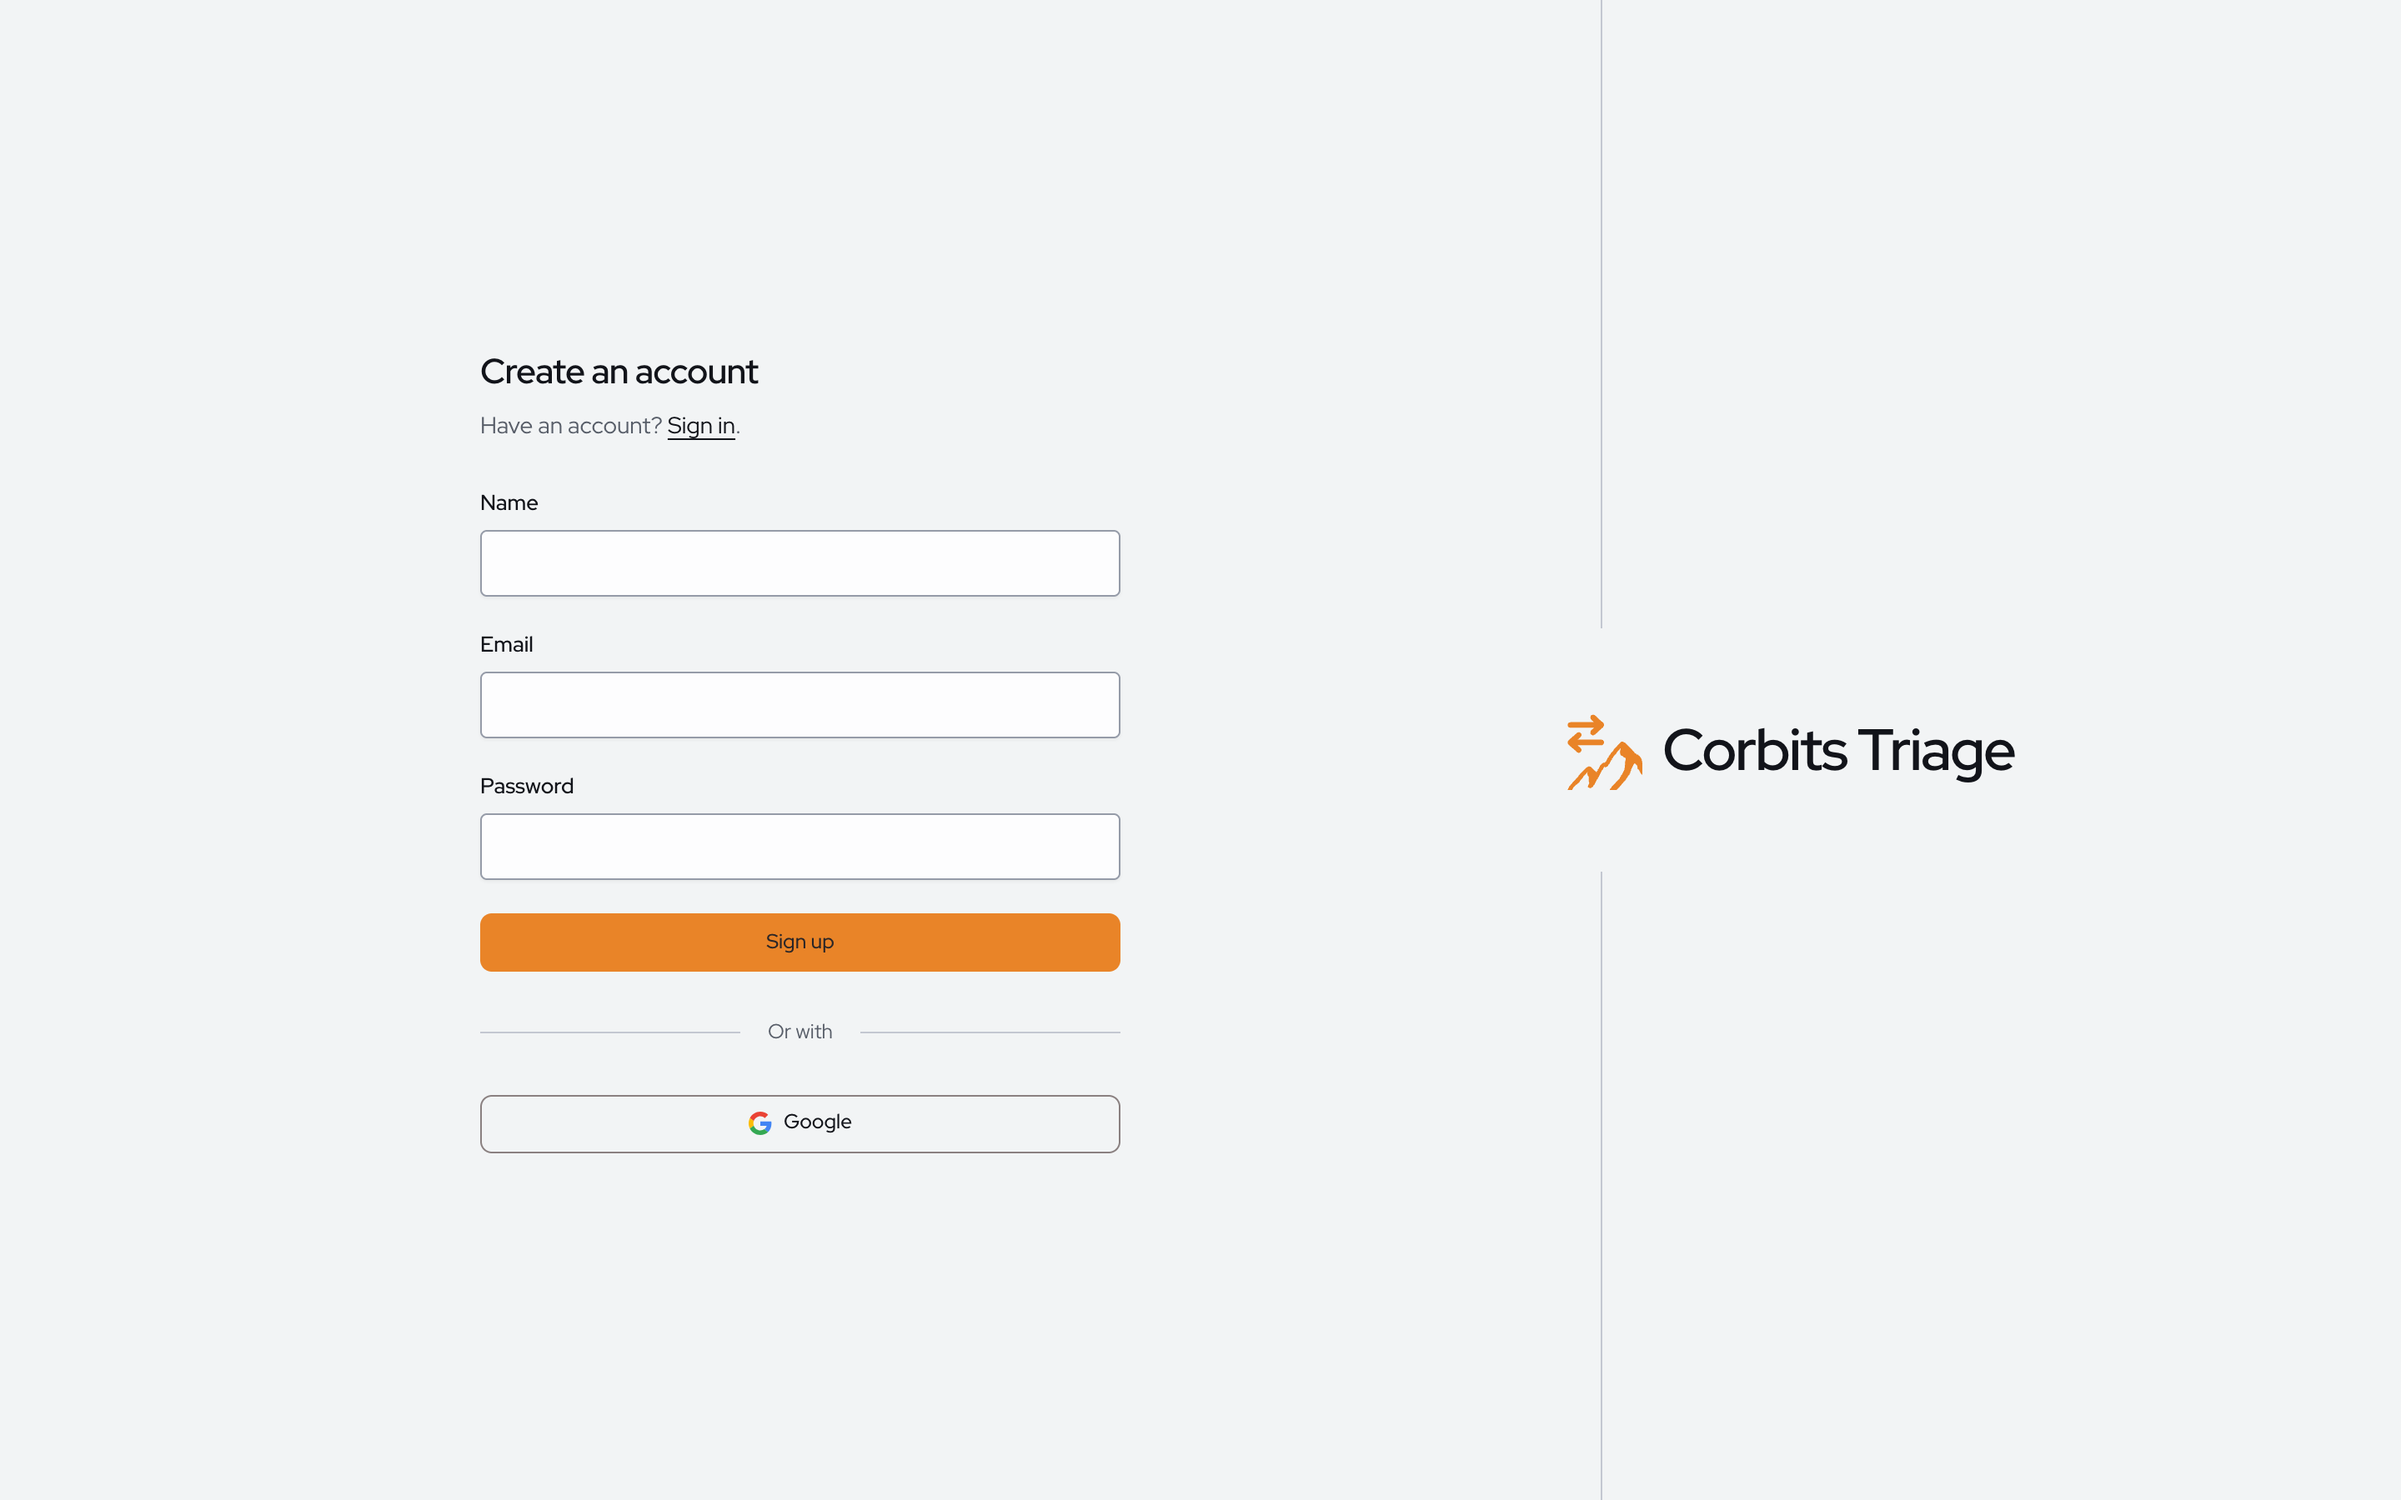
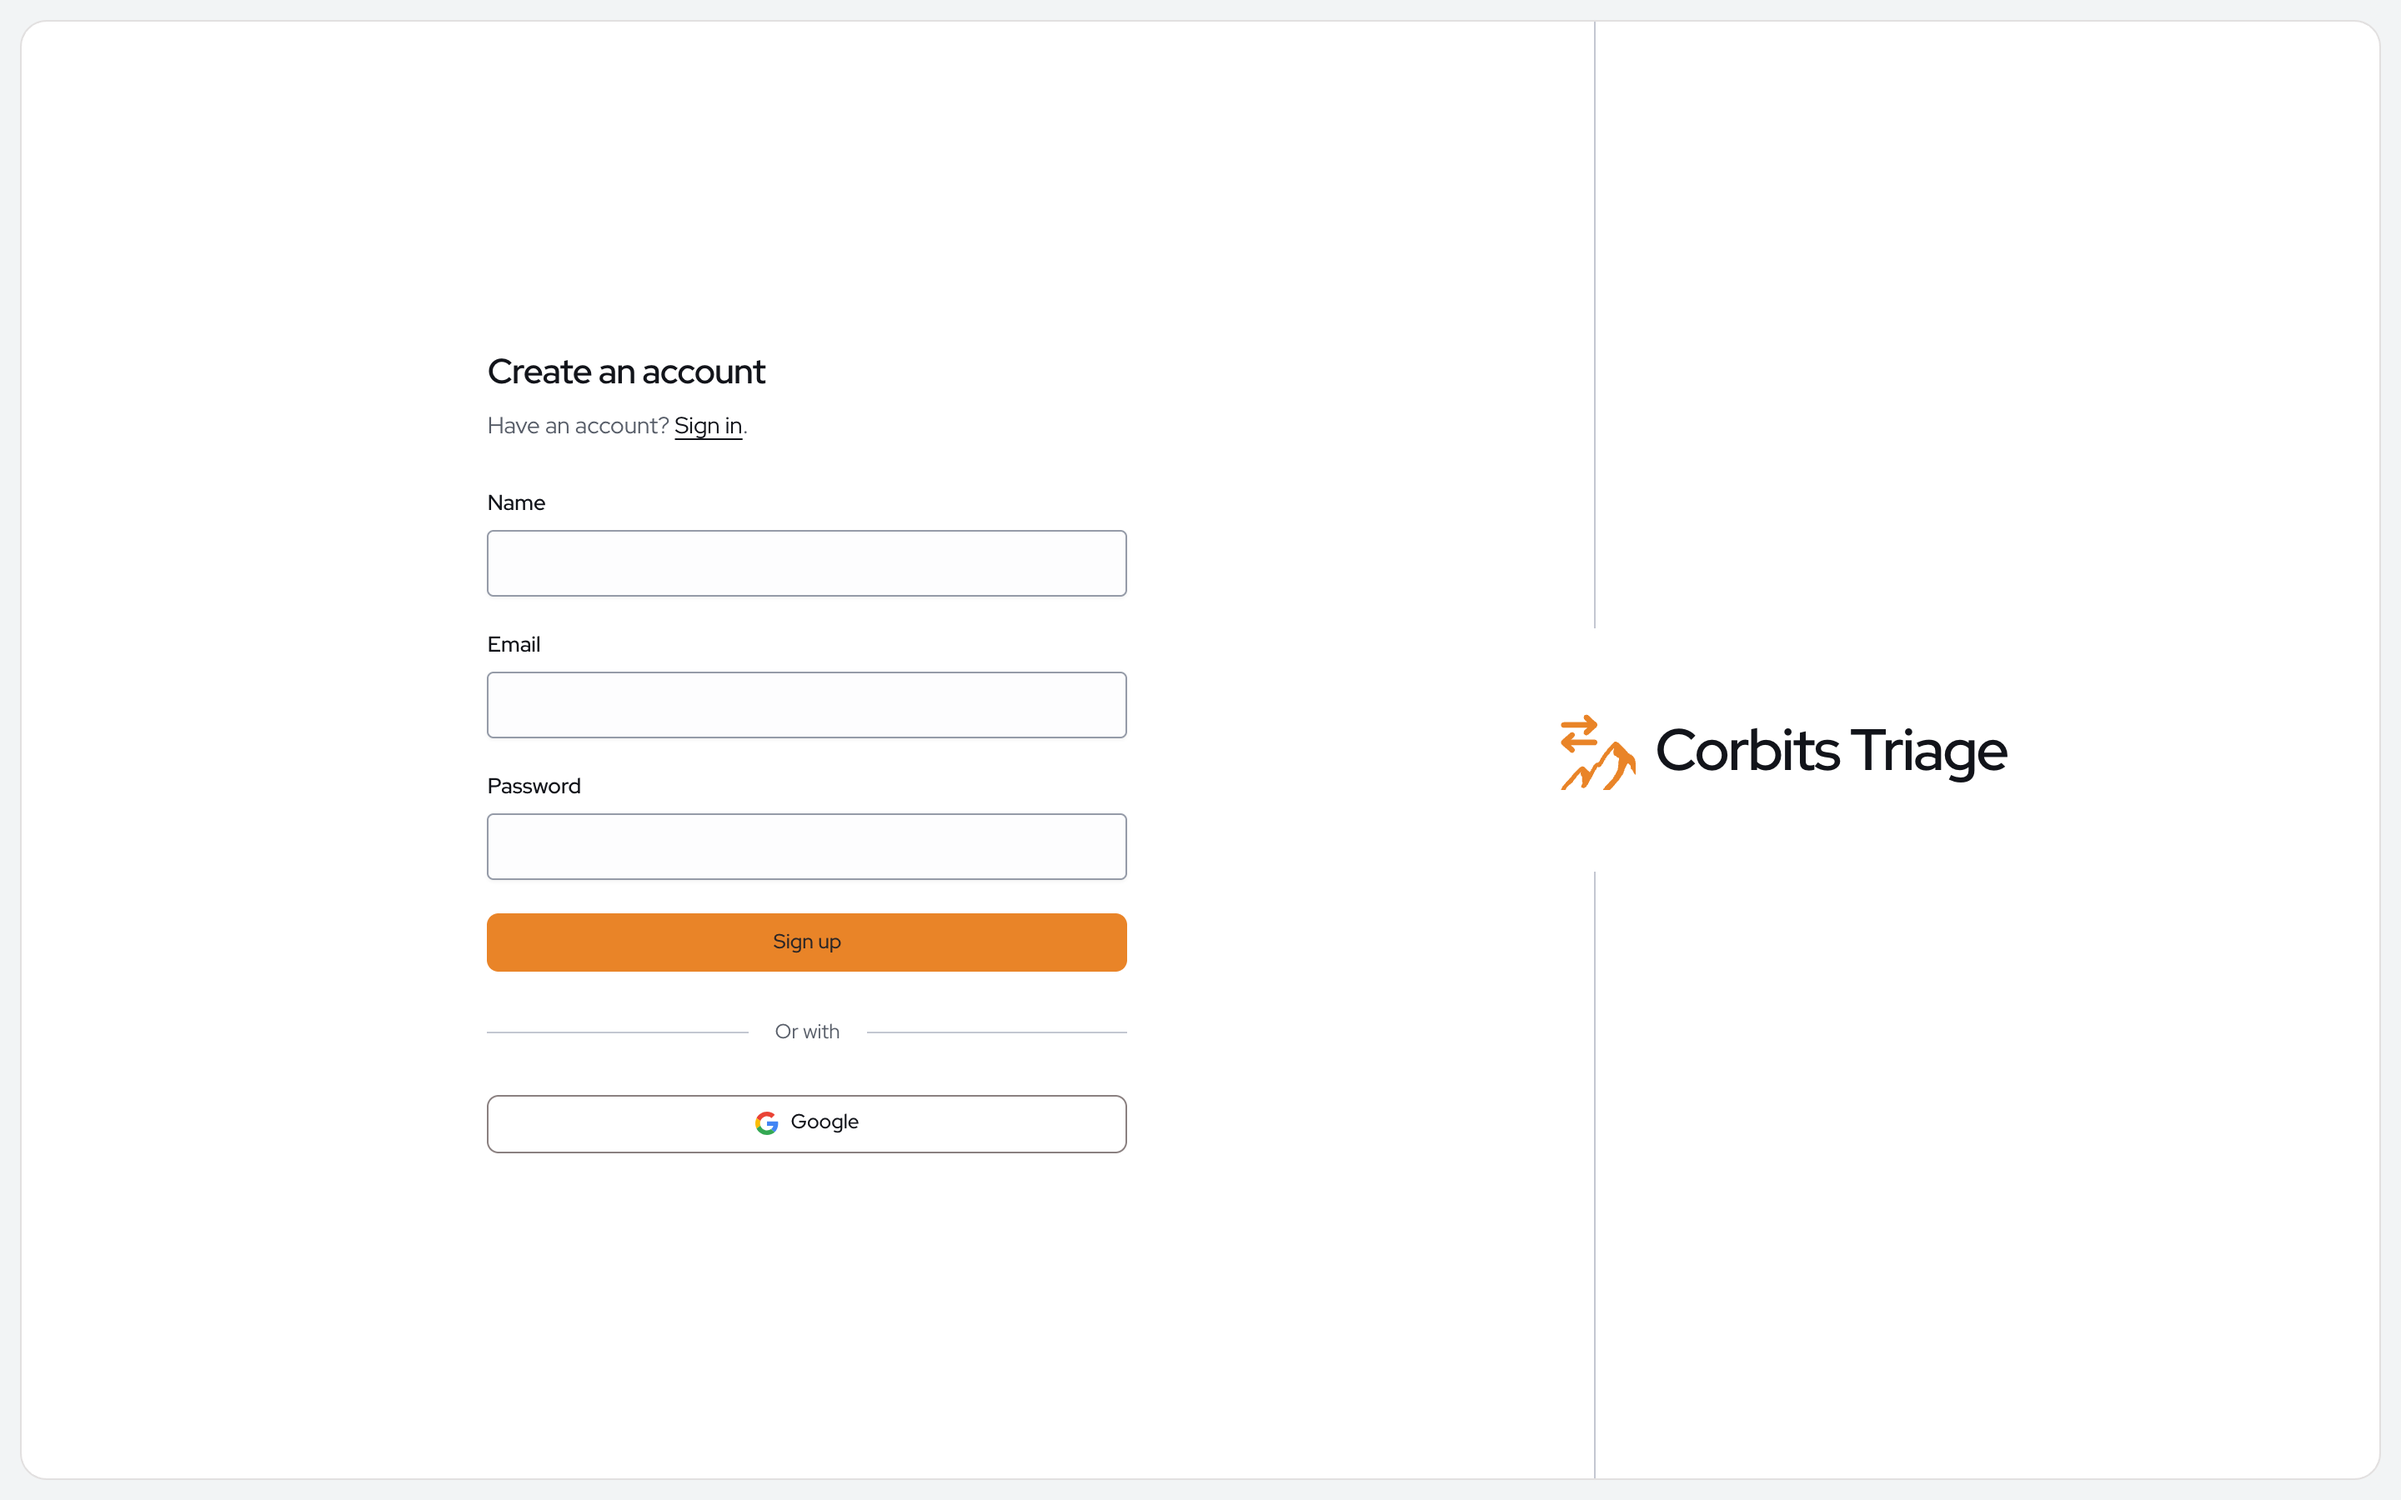
fix(web): set the sign-in pages on the app's white rounded pane

diff --git a/apps/web/src/onboarding.css b/apps/web/src/onboarding.css
@@ -46,11 +46,16 @@ body:has(.setup-flow),
 .setup-flow input:focus,
 .setup-flow textarea:focus { outline: none; border-color: var(--heat); box-shadow: var(--focus); }
 
+/* The signed-in app's stage: same inset, edge and corners. It scrolls itself because the page cannot from 721px up. */
 .signin {
-  min-height: 100svh;
+  height: calc(100dvh - 24px);
+  margin: 12px;
   display: grid;
   grid-template-columns: 2fr 1fr;
-  background: var(--background);
+  border: 1px solid rgba(92, 85, 85, 0.18);
+  border-radius: 16px;
+  background: #ffffff;
+  overflow: auto;
 }
 .signin-main { display: flex; align-items: center; justify-content: center; padding: 48px 16px; }
 .signin-column { display: grid; gap: 28px; width: 100%; max-width: 384px; }
@@ -69,7 +74,7 @@ body:has(.setup-flow),
   gap: 12px;
   margin-left: -24px;
   padding: 48px 0;
-  background: var(--background);
+  background: #ffffff;
   color: var(--foreground);
   font-size: 2.5rem;
   font-weight: 600;
